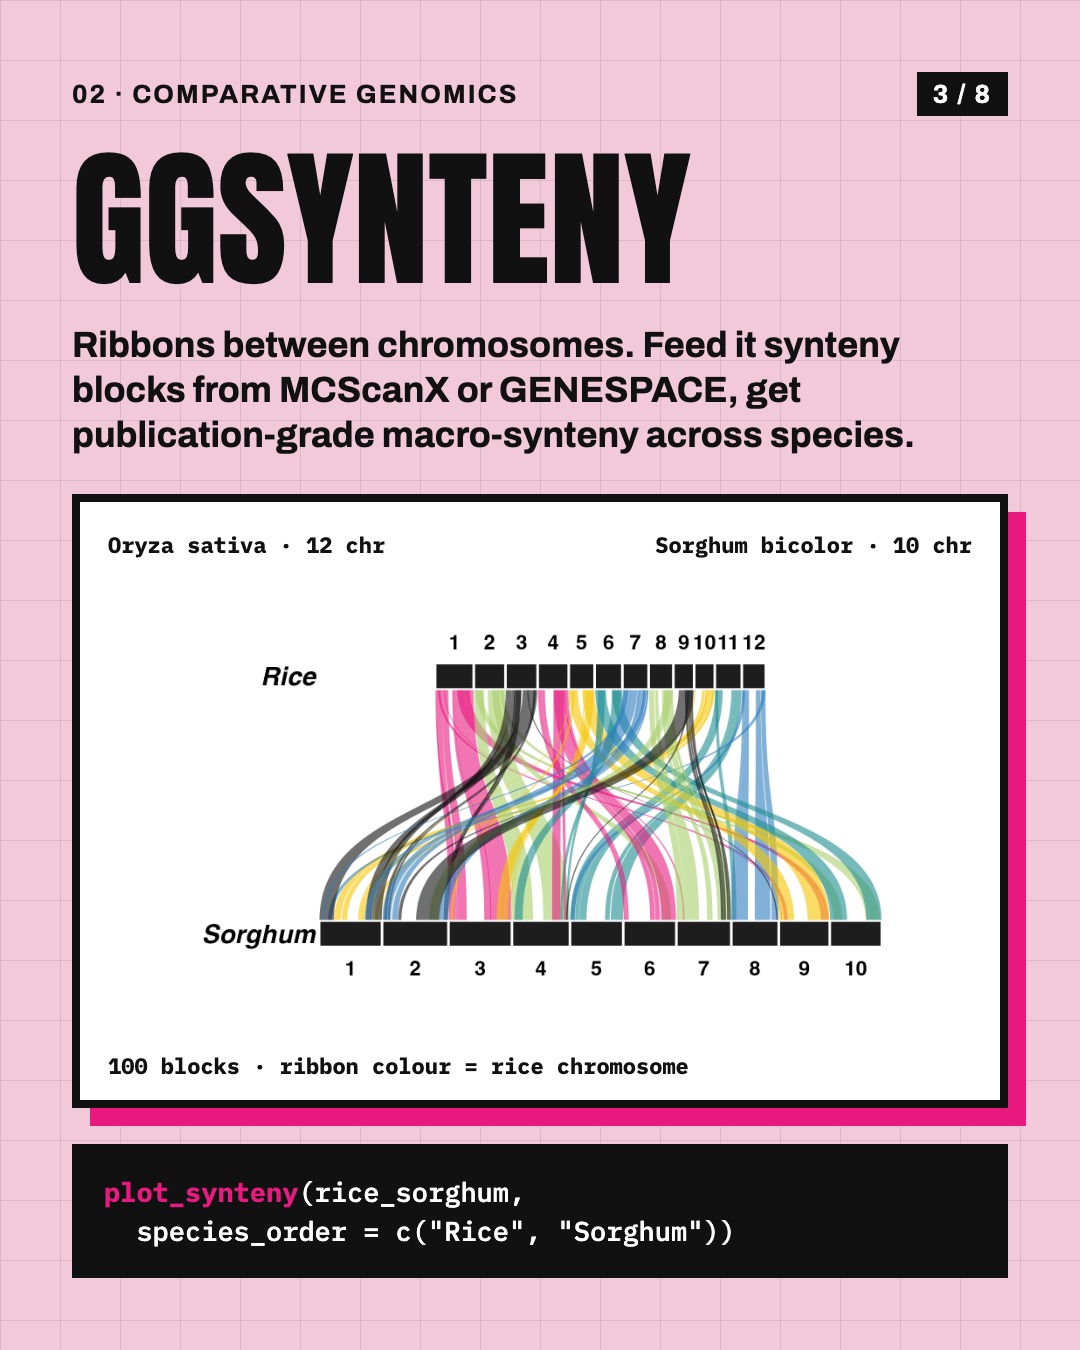
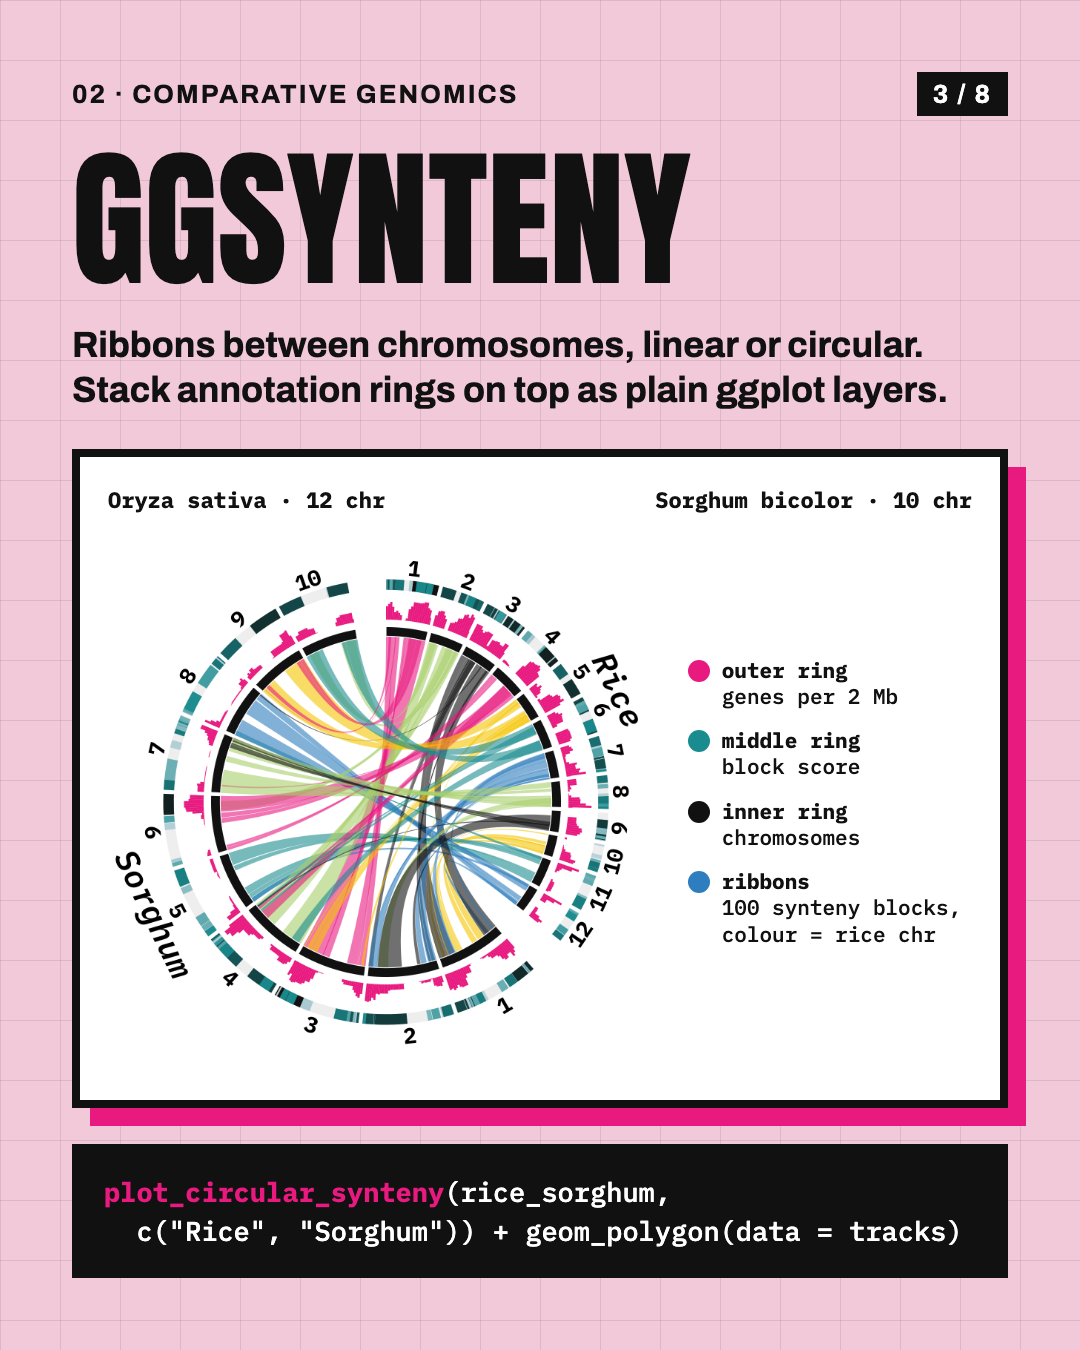
ggsynteny slide: circular layout with gene-density and block-score rings

diff --git a/bioinfo-plots-in-r/README.md b/bioinfo-plots-in-r/README.md
@@ -13,7 +13,7 @@ Every plot in the carousel is real R output from the scripts in [`R/`](R).
 | # | Package | Plot | Script | Data |
 |---|---|---|---|---|
 | 01 | [ggvolc](https://github.com/loukesio/ggvolc) | volcano plot | [`R/01_volcano.R`](R/01_volcano.R) | `ggvolc::all_genes`, 4,857 yeast genes from DESeq2 |
-| 02 | [ggsynteny](https://github.com/loukesio/ggsynteny) | macro-synteny ribbons | [`R/02_synteny.R`](R/02_synteny.R) | `ggsynteny::rice_sorghum`, 100 blocks |
+| 02 | [ggsynteny](https://github.com/loukesio/ggsynteny) | circular synteny + annotation rings | [`R/02b_synteny_circular.R`](R/02b_synteny_circular.R) (linear: [`R/02_synteny.R`](R/02_synteny.R)) | `ggsynteny::rice_sorghum`, 100 blocks; rings = genes per 2 Mb and block score, both from the block table |
 | 03 | [ggraph](https://ggraph.data-imaginist.com) | network | [`R/03_network.R`](R/03_network.R) | simulated scale-free graph, 40 nodes |
 | 04 | [ggtree](https://yulab-smu.top/treedata-book/) | annotated phylogeny | [`R/04_tree.R`](R/04_tree.R) | Caprinae, 8 species (illustrative topology and support values) |
 | 05 | [ggiraph](https://davidgohel.github.io/ggiraph/) | interactive PCA | [`R/05_pca.R`](R/05_pca.R) | simulated expression, 24 samples, real `prcomp` |
@@ -24,8 +24,9 @@ Hover the PCA yourself: open [`plots/pca_interactive.html`](plots/pca_interactiv
 ## Run it
 
 ```r
-install.packages(c("ggvolc", "ggsynteny", "ggraph", "tidygraph", "igraph", "ape", "ggiraph", "patchwork", "ragg"))
+install.packages(c("ggvolc", "ggraph", "tidygraph", "igraph", "ape", "ggiraph", "patchwork", "ragg"))
 BiocManager::install("ggtree")
+remotes::install_github("loukesio/ggsynteny")   # >= 0.5.0 for the circular layout
 ```
 
 Install the [IBM Plex Mono](https://fonts.google.com/specimen/IBM+Plex+Mono) font, then from this folder:
